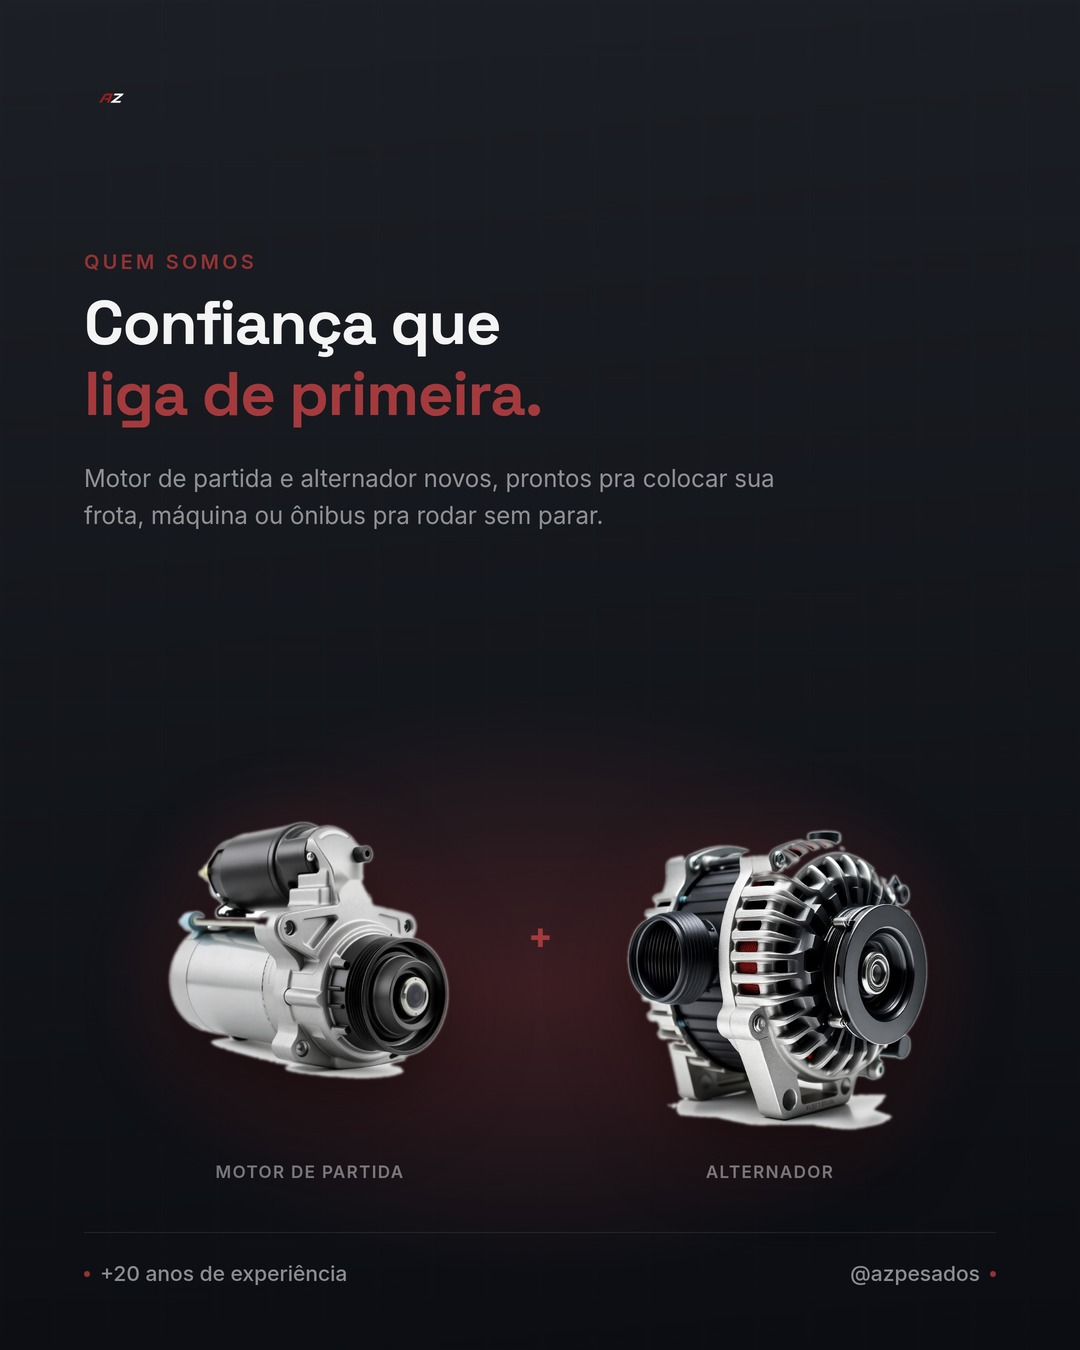
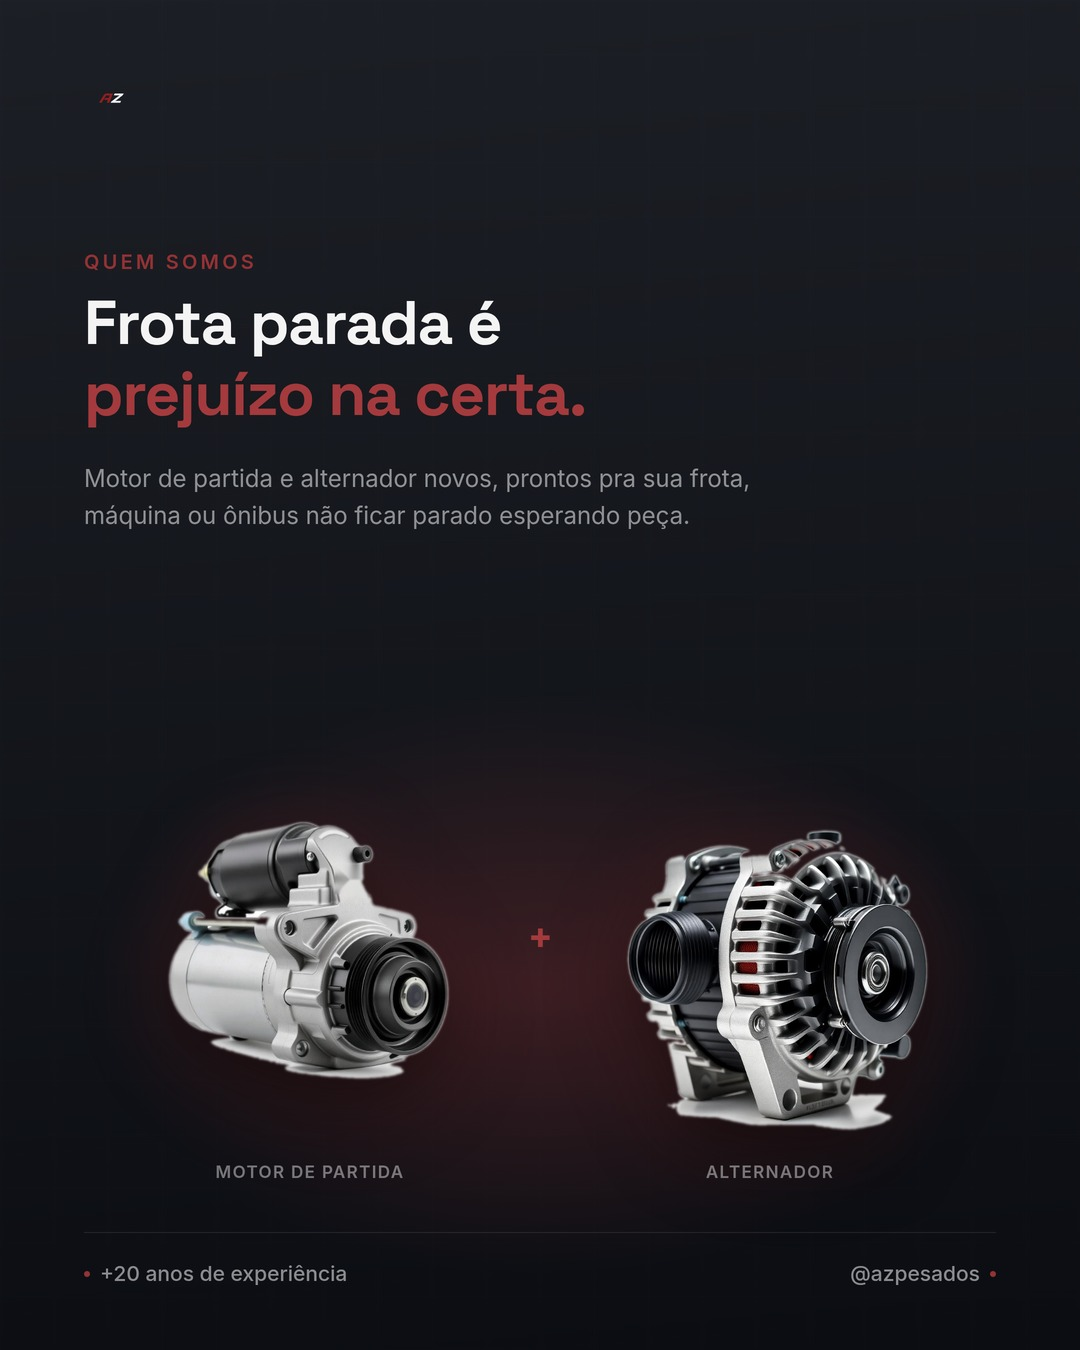
Novo título no post 1 (frota parada/prejuízo) e nova fonte no post 2
Post 1: título reescrito em torno de frota parada e prejuízo, mantendo
o layout com as duas peças lado a lado.
Post 2: troca a fonte de destaque para Sora (títulos e numeração),
mantendo Inter no corpo do texto.

Claude-Session: https://claude.ai/code/session_01P4dFtbpr6ATd4oYWuebosk

Changed region(s): [[0.0611, 0.2178, 0.55, 0.3111], [0.0917, 0.3422, 0.7028, 0.4044]]

diff --git a/posts/fixados/01-quem-somos.md b/posts/fixados/01-quem-somos.md
@@ -7,7 +7,9 @@
 
 ![Post Quem Somos](imagens/01-quem-somos.jpg)
 
-Composição própria: título de impacto ("Confiança que liga de primeira.") e as duas peças que a AZ vende — motor de partida + alternador — lado a lado. Usa a paleta e tipografia do site (grafite `#1B1B1B`, vermelho vinho `#933235`, Space Grotesk/Inter) para o post "encaixar" no feed junto do site, sem repetir o layout do hero nem o texto do site.
+Composição própria: título sobre frota parada/prejuízo ("Frota parada é prejuízo na certa.") e as duas peças que a AZ vende — motor de partida + alternador — lado a lado. Usa a paleta e tipografia do site (grafite `#1B1B1B`, vermelho vinho `#933235`, Space Grotesk/Inter) para o post "encaixar" no feed junto do site, sem repetir o layout do hero nem o texto do site.
+
+As fotos das peças são temporárias — assim que a foto real for enviada, é só substituir o arquivo.
 
 ## Legenda
 

diff --git a/posts/fixados/02-diferenciais.md b/posts/fixados/02-diferenciais.md
@@ -7,7 +7,7 @@
 
 ![Post Nossos Diferenciais](imagens/02-diferenciais.jpg)
 
-Versão single-image com os 4 principais diferenciais em lista numerada com regras finas (não é o grid de cards do site), fundo claro liso — mesma paleta clara/vermelho vinho, composição própria para o Instagram.
+Versão single-image com os 4 principais diferenciais em lista numerada com regras finas (não é o grid de cards do site), fundo claro liso — mesma paleta clara/vermelho vinho. Título e números usam a fonte Sora (os outros dois posts fixados usam Space Grotesk).
 
 ## Legenda
 
